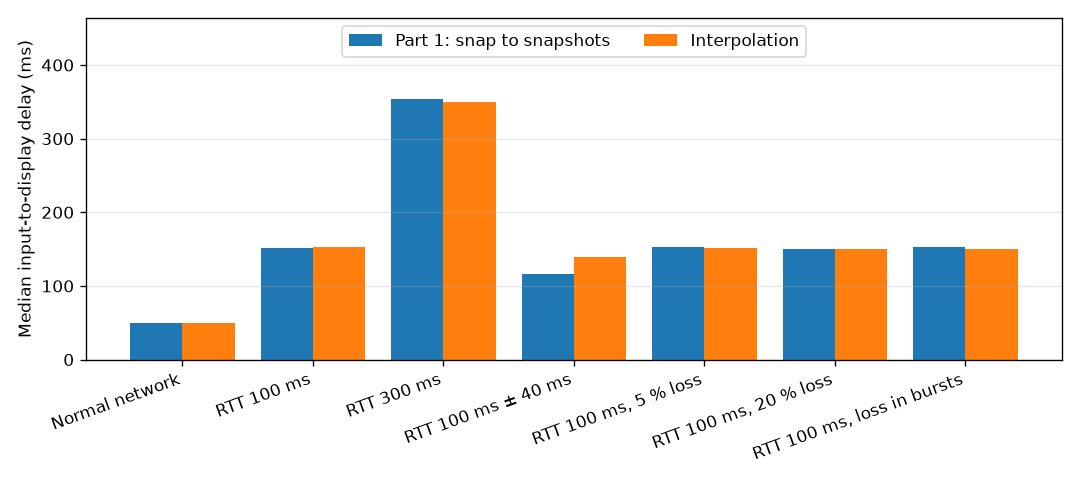
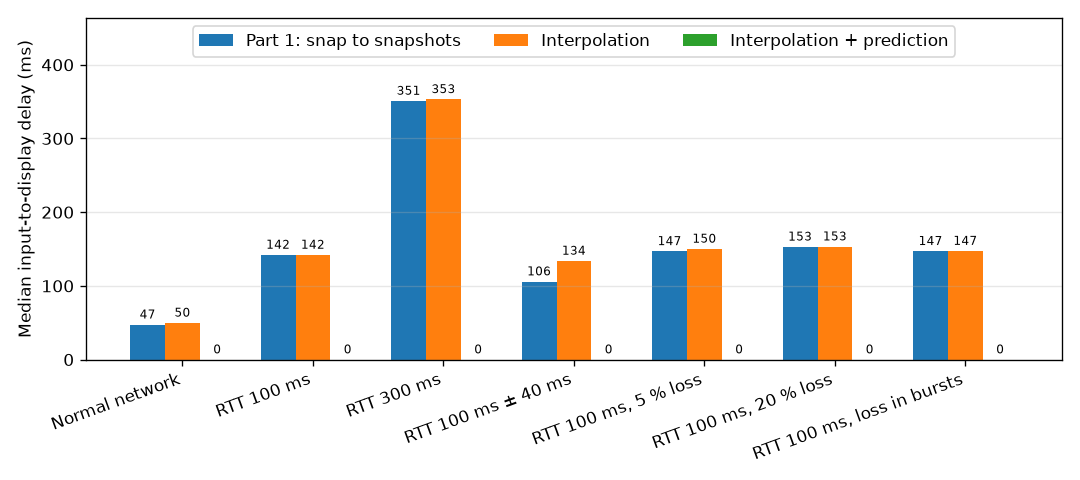
(network) docs: prediction in network comparison
The benchmark measures a third mode with prediction and its
corrections; results and analysis updated.
Refs #90.

diff --git a/tools/netbench.py b/tools/netbench.py
@@ -54,8 +54,9 @@ SCENARIOS = {
 
 # Name, client options.
 MODES = {
-    "snap": ("Part 1: snap to snapshots", ["--no-interpolation"]),
-    "interpolation": ("Interpolation", []),
+    "snap": ("Part 1: snap to snapshots", ["--no-interpolation", "--no-prediction"]),
+    "interpolation": ("Interpolation", ["--no-prediction"]),
+    "prediction": ("Interpolation + prediction", []),
 }
 
 STILL = 0.01
@@ -129,10 +130,10 @@ def run_one(server: Path, client: Path, mode: str, output: Path, duration: float
             server_process.kill()
 
 
-def run(scenarios: list[str], duration: float, use_netem: bool) -> None:
+def run(scenarios: list[str], modes: list[str], duration: float, use_netem: bool) -> None:
     server, client = binary("r-type_server"), binary("r-type_client")
     RESULTS_DIR.mkdir(parents=True, exist_ok=True)
-    total = len(scenarios) * len(MODES)
+    total = len(scenarios) * len(modes)
     log(f"{total} runs of {duration:g} s: do not touch the client windows.")
     if use_netem:
         log("tc needs sudo: enter your password if asked.")
@@ -142,7 +143,7 @@ def run(scenarios: list[str], duration: float, use_netem: bool) -> None:
         for scenario in scenarios:
             if use_netem:
                 netem_set(SCENARIOS[scenario][1])
-            for mode in MODES:
+            for mode in modes:
                 done += 1
                 log(f"[{done}/{total}] {SCENARIOS[scenario][0]}, {MODES[mode][0]}")
                 run_one(server, client, mode, RESULTS_DIR / f"{scenario}-{mode}.csv", duration)
@@ -163,6 +164,8 @@ class Result:
     moves: list[float] = field(default_factory=list)
     received: float = 0.0
     sent: float = 0.0
+    corrections: list[float] = field(default_factory=list)
+    predicted: bool = False
 
     @property
     def fps(self) -> float:
@@ -203,6 +206,8 @@ def load(path: Path) -> Result:
                     result.missed += 1
                 else:
                     result.delays.append(a)
+            elif kind == "correction":
+                result.corrections.append(a)
             elif kind == "net" and t > 0:
                 result.received = a / t
                 result.sent = float(row["b"]) / t
@@ -235,9 +240,12 @@ def ensure_matplotlib() -> None:
         pass
     if not VENV_PYTHON.is_file():
         raise BenchError("matplotlib is missing and .venv/ does not exist: run ./rtype.py once")
-    log("Installing matplotlib in .venv/...")
-    subprocess.run([str(VENV_PYTHON), "-m", "pip", "install", "--quiet",
-                    "--disable-pip-version-check", "matplotlib"], check=True)
+    has_it = subprocess.run([str(VENV_PYTHON), "-c", "import matplotlib"],
+                            capture_output=True, check=False).returncode == 0
+    if not has_it:
+        log("Installing matplotlib in .venv/...")
+        subprocess.run([str(VENV_PYTHON), "-m", "pip", "install", "--quiet",
+                        "--disable-pip-version-check", "matplotlib"], check=True)
     if Path(sys.prefix).resolve() != VENV_DIR.resolve():
         os.execv(str(VENV_PYTHON), [str(VENV_PYTHON), *sys.argv])
 
@@ -250,19 +258,21 @@ def charts(results: dict, scenarios: list[str]) -> list[str]:
 
     IMAGES_DIR.mkdir(parents=True, exist_ok=True)
     metrics = (
-        ("delay", "Median input-to-display delay (ms)", lambda r: r.delay_ms(0.5) or 0.0),
-        ("still", "Frames where an entity is frozen (%)", lambda r: 100 * r.still_ratio),
-        ("jump", "99th percentile of the move per frame (units)", lambda r: r.jump),
+        ("delay", "Median input-to-display delay (ms)", "%.0f",
+         lambda r: r.delay_ms(0.5) or 0.0),
+        ("still", "Frames where an entity is frozen (%)", "%.1f", lambda r: 100 * r.still_ratio),
+        ("jump", "99th percentile of the move per frame (units)", "%.1f", lambda r: r.jump),
     )
     lines = []
     width = 0.8 / len(MODES)
-    for name, label, value in metrics:
+    for name, label, value_format, value in metrics:
         figure, axes = plt.subplots(figsize=(9, 4))
         for index, mode in enumerate(MODES):
             values = [value(results[(s, mode)]) if (s, mode) in results else 0.0
                       for s in scenarios]
             positions = [i + (index - (len(MODES) - 1) / 2) * width for i in range(len(scenarios))]
-            axes.bar(positions, values, width, label=MODES[mode][0])
+            bars = axes.bar(positions, values, width, label=MODES[mode][0])
+            axes.bar_label(bars, fmt=value_format, fontsize=7, padding=2)
         axes.set_xticks(range(len(scenarios)))
         axes.set_xticklabels([SCENARIOS[s][0] for s in scenarios], rotation=20, ha="right")
         axes.set_ylabel(label)
@@ -283,6 +293,7 @@ def report(with_charts: bool) -> None:
             path = RESULTS_DIR / f"{scenario}-{mode}.csv"
             if path.is_file():
                 results[(scenario, mode)] = load(path)
+                results[(scenario, mode)].predicted = "--no-prediction" not in MODES[mode][1]
     if not results:
         raise BenchError(f"no measures in {RESULTS_DIR}: run `./tools/netbench.py run` first")
     scenarios = [s for s in SCENARIOS if any((s, m) in results for m in MODES)]
@@ -300,6 +311,10 @@ def report(with_charts: bool) -> None:
                    lambda r: fmt(100 * r.still_ratio, 1, " %"))
     lines += table(results, scenarios, "99th percentile of the move of an entity in one "
                    "frame, in playfield units", lambda r: fmt(r.jump, 1))
+    lines += table(results, scenarios, "Corrections of the predicted ship per second, and "
+                   "their median size in playfield units",
+                   lambda r: "n/a" if not r.predicted else "0" if not r.corrections else
+                   f"{len(r.corrections) / r.duration:.1f} ({statistics.median(r.corrections):.1f})")
     lines += table(results, scenarios, "Traffic of the client, received / sent, in bytes "
                    "per second", lambda r: f"{r.received:.0f} / {r.sent:.0f}")
     if with_charts:
@@ -323,6 +338,8 @@ def main() -> int:
                         help="seconds measured per run (default: 30)")
     parser.add_argument("-s", "--scenarios", nargs="+", choices=list(SCENARIOS),
                         default=list(SCENARIOS), help="network scenarios (default: all)")
+    parser.add_argument("-m", "--modes", nargs="+", choices=list(MODES),
+                        default=list(MODES), help="client modes (default: all)")
     parser.add_argument("--no-netem", action="store_true",
                         help="do not touch tc: measure the current network as is")
     parser.add_argument("--no-charts", action="store_true",
@@ -336,7 +353,7 @@ def main() -> int:
                 args.scenarios = ["normal"]
             elif not sys.platform.startswith("linux"):
                 raise BenchError("tc netem only exists on Linux (or use --no-netem)")
-            run(args.scenarios, args.duration, not args.no_netem)
+            run(args.scenarios, args.modes, args.duration, not args.no_netem)
         if args.command in (None, "report"):
             report(not args.no_charts)
     except BenchError as error:

diff --git a/docs/NETWORK_COMPARISON.md b/docs/NETWORK_COMPARISON.md
@@ -17,8 +17,9 @@ part of the technical study's "Before vs after" item.
 
 | Mode | Client option | What the client does with a snapshot |
 |------|---------------|---------------------------------------|
-| Part 1: snap to snapshots | `--no-interpolation` | Moves every entity straight to its new position, 20 times per second, as the `v1.0` prototype did. |
-| Interpolation | (default) | Draws the other entities 100 ms in the past, interpolated between the two snapshots around that time (see [Architecture](ARCHITECTURE.md)). The local ship still jumps to each snapshot. |
+| Part 1: snap to snapshots | `--no-interpolation --no-prediction` | Moves every entity straight to its new position, 20 times per second, as the `v1.0` prototype did. |
+| Interpolation | `--no-prediction` | Draws the other entities 100 ms in the past, interpolated between the two snapshots around that time (see [Architecture](ARCHITECTURE.md)). The local ship still jumps to each snapshot. |
+| Interpolation + prediction | (default) | Also predicts the local ship: it moves as soon as a key is pressed, and each snapshot corrects it smoothly (reconciliation). |
 
 All the modes run the same build of the same code: only the technique
 changes, so any difference comes from it.
@@ -43,9 +44,10 @@ changes, so any difference comes from it.
 
 | Metric | What it shows | Better when |
 |--------|---------------|-------------|
-| Input-to-display delay | Time between a key press and the first frame where the local ship moves that way on screen. "Missed" counts the presses never shown before the next one. | Lower |
+| Input-to-display delay | Time between a key press and the first frame where the local ship moves that way on screen; 0 means the frame of the key press itself. "Missed" counts the presses never shown before the next one. | Lower |
 | Frozen frames | Share of the frames where a synced entity (enemy, missile) does not move on screen. Every entity of the game moves all the time, so a frozen frame is a stutter. | Lower |
 | Move per frame, 99th percentile | The largest on-screen jumps of an entity between two frames, in playfield units (1920 × 1080). Smooth movement spreads a move over every frame; snapping does it in one jump. | Lower |
+| Prediction corrections | How often the server disagreed with the predicted ship, and by how much. Each correction fades out smoothly instead of being drawn as a jump. | Fewer, smaller |
 | Traffic | Bytes per second received and sent by the client, to check that a gain does not cost bandwidth. | Equal |
 
 ## 4. Results
@@ -56,51 +58,63 @@ Generated by `tools/netbench.py` on 2026-11-03: 30 s per run, client at about 24
 
 **Input-to-display delay of the local ship, median (95th percentile), in ms**
 
-| Scenario | Part 1: snap to snapshots | Interpolation |
-|---|---:|---:|
-| Normal network | 50 (56) | 50 (58) |
-| RTT 100 ms | 151 (159) | 153 (159) |
-| RTT 300 ms | 353 (359) | 350 (353) |
-| RTT 100 ms ± 40 ms | 117 (167) | 140 (151) |
-| RTT 100 ms, 5 % loss | 153 (201) | 151 (159) |
-| RTT 100 ms, 20 % loss | 150 (200) | 150 (201) |
-| RTT 100 ms, loss in bursts | 152 (159) | 151 (156) |
+| Scenario | Part 1: snap to snapshots | Interpolation | Interpolation + prediction |
+|---|---:|---:|---:|
+| Normal network | 47 (56) | 50 (56) | 0 (6) |
+| RTT 100 ms | 142 (148) | 142 (148) | 0 (6) |
+| RTT 300 ms | 351 (359) | 353 (359) | 0 (6) |
+| RTT 100 ms ± 40 ms | 106 (168) | 134 (159) | 0 (5) |
+| RTT 100 ms, 5 % loss | 147 (151) | 150 (200) | 0 (6) |
+| RTT 100 ms, 20 % loss | 153 (250) | 153 (203) | 0 (6) |
+| RTT 100 ms, loss in bursts | 147 (192) | 147 (197) | 0 (5) |
 
 **Frames where a synced entity is frozen on screen**
 
-| Scenario | Part 1: snap to snapshots | Interpolation |
-|---|---:|---:|
-| Normal network | 91.7 % | 2.7 % |
-| RTT 100 ms | 91.7 % | 2.9 % |
-| RTT 300 ms | 91.7 % | 2.8 % |
-| RTT 100 ms ± 40 ms | 91.7 % | 2.7 % |
-| RTT 100 ms, 5 % loss | 92.1 % | 2.5 % |
-| RTT 100 ms, 20 % loss | 93.3 % | 3.0 % |
-| RTT 100 ms, loss in bursts | 91.9 % | 2.8 % |
+| Scenario | Part 1: snap to snapshots | Interpolation | Interpolation + prediction |
+|---|---:|---:|---:|
+| Normal network | 91.6 % | 2.3 % | 2.7 % |
+| RTT 100 ms | 91.7 % | 2.9 % | 2.8 % |
+| RTT 300 ms | 91.7 % | 2.8 % | 2.5 % |
+| RTT 100 ms ± 40 ms | 91.7 % | 2.8 % | 2.7 % |
+| RTT 100 ms, 5 % loss | 92.1 % | 2.7 % | 2.8 % |
+| RTT 100 ms, 20 % loss | 93.3 % | 2.7 % | 2.8 % |
+| RTT 100 ms, loss in bursts | 92.0 % | 2.7 % | 2.8 % |
 
 **99th percentile of the move of an entity in one frame, in playfield units**
 
-| Scenario | Part 1: snap to snapshots | Interpolation |
-|---|---:|---:|
-| Normal network | 15.0 | 2.2 |
-| RTT 100 ms | 15.0 | 2.2 |
-| RTT 300 ms | 15.0 | 2.2 |
-| RTT 100 ms ± 40 ms | 15.0 | 2.1 |
-| RTT 100 ms, 5 % loss | 15.0 | 2.1 |
-| RTT 100 ms, 20 % loss | 15.0 | 2.1 |
-| RTT 100 ms, loss in bursts | 15.0 | 2.2 |
+| Scenario | Part 1: snap to snapshots | Interpolation | Interpolation + prediction |
+|---|---:|---:|---:|
+| Normal network | 15.0 | 1.8 | 1.8 |
+| RTT 100 ms | 15.0 | 1.9 | 1.8 |
+| RTT 300 ms | 15.0 | 1.9 | 1.8 |
+| RTT 100 ms ± 40 ms | 15.0 | 2.3 | 1.9 |
+| RTT 100 ms, 5 % loss | 15.0 | 1.9 | 1.8 |
+| RTT 100 ms, 20 % loss | 15.0 | 2.4 | 2.4 |
+| RTT 100 ms, loss in bursts | 15.0 | 2.4 | 2.4 |
+
+**Corrections of the predicted ship per second, and their median size in playfield units**
+
+| Scenario | Part 1: snap to snapshots | Interpolation | Interpolation + prediction |
+|---|---:|---:|---:|
+| Normal network | n/a | n/a | 6.1 (0.1) |
+| RTT 100 ms | n/a | n/a | 6.2 (0.1) |
+| RTT 300 ms | n/a | n/a | 5.7 (0.1) |
+| RTT 100 ms ± 40 ms | n/a | n/a | 6.8 (2.5) |
+| RTT 100 ms, 5 % loss | n/a | n/a | 5.9 (0.2) |
+| RTT 100 ms, 20 % loss | n/a | n/a | 4.7 (0.8) |
+| RTT 100 ms, loss in bursts | n/a | n/a | 5.8 (0.3) |
 
 **Traffic of the client, received / sent, in bytes per second**
 
-| Scenario | Part 1: snap to snapshots | Interpolation |
-|---|---:|---:|
-| Normal network | 6091 / 4073 | 5669 / 4074 |
-| RTT 100 ms | 5620 / 4074 | 6875 / 4074 |
-| RTT 300 ms | 6713 / 4069 | 4983 / 4074 |
-| RTT 100 ms ± 40 ms | 4496 / 4074 | 5375 / 4074 |
-| RTT 100 ms, 5 % loss | 5963 / 4070 | 4309 / 4074 |
-| RTT 100 ms, 20 % loss | 3664 / 4074 | 4311 / 4073 |
-| RTT 100 ms, loss in bursts | 6345 / 4073 | 6873 / 4074 |
+| Scenario | Part 1: snap to snapshots | Interpolation | Interpolation + prediction |
+|---|---:|---:|---:|
+| Normal network | 3820 / 4058 | 4103 / 4074 | 5544 / 4074 |
+| RTT 100 ms | 5243 / 4074 | 8157 / 4074 | 6581 / 4074 |
+| RTT 300 ms | 8346 / 4073 | 7217 / 4074 | 5626 / 4074 |
+| RTT 100 ms ± 40 ms | 4942 / 4074 | 6252 / 4007 | 5931 / 4074 |
+| RTT 100 ms, 5 % loss | 4850 / 4074 | 5034 / 4074 | 6349 / 4074 |
+| RTT 100 ms, 20 % loss | 4715 / 4074 | 3589 / 4072 | 4024 / 4074 |
+| RTT 100 ms, loss in bursts | 5163 / 4074 | 4744 / 4074 | 5080 / 4074 |
 
 ![Median input-to-display delay (ms)](images/network-comparison/netbench-delay.png)
 
@@ -117,32 +131,48 @@ snapshots per second and the client draws about 240 frames per second. When it
 snaps to each snapshot, an entity stays still for 11 frames out of 12 (92 %
 frozen frames) and then jumps its whole 50 ms move at once (15 units for an
 enemy). With interpolation it moves a little on every frame: under 3 % frozen
-frames, and the largest per-frame moves are 7 times smaller. The remaining 3 %
-are mostly new entities, which wait about 100 ms at their spawn point for the
-render clock to reach their first snapshot.
+frames, and the largest per-frame moves are about 8 times smaller. The
+remaining 3 % are mostly new entities, which wait about 100 ms at their spawn
+point for the render clock to reach their first snapshot.
 
 **Robust to the network.** The interpolation figures barely move from a
 perfect network to 300 ms of latency, jitter or 20 % loss: the 100 ms render
 delay always keeps two snapshots to interpolate between, and a short
 extrapolation bridges the gaps left by lost snapshots.
 
-**The local ship is not helped yet.** Its delay is the same in both modes, and
-grows with the network: about 50 ms on a perfect network (waiting for the next
-snapshot), then the round-trip time plus 50 ms (150 ms at 100 ms RTT, 350 ms at
-300 ms RTT). Interpolation does not touch the local ship on purpose; this is
-what client-side prediction addresses.
+**Responsiveness: prediction removes the latency of the local ship.**
+Without prediction, the ship only moves once the server has applied the input
+and its snapshot has come back: about 50 ms on a perfect network (waiting for
+the next snapshot), then the round-trip time plus 50 ms (about 150 ms at
+100 ms RTT, 350 ms at 300 ms RTT, up to 250 ms with 20 % loss).
+Interpolation does not change this. With prediction, the ship moves in the
+very frame of the key press (0 ms median, under 6 ms in 95 % of the presses,
+that is one frame), whatever the network.
 
-**Bandwidth is unchanged.** Interpolation and the missile owner bits add no
-byte to the packets. The received traffic varies between runs (about 3.5 to
-7 kB/s) with the number of enemies on screen, not with the mode. The client
-sends about 4 kB/s because it sends one input per displayed frame: at 240
-frames per second, this is the main cost of the upload, and a fixed input rate
-would reduce it.
+**The server stays in charge.** The predicted ship is corrected about 6 times
+per second, each time a snapshot shows a small difference with the
+prediction. On a stable network these corrections are tiny (a tenth of a unit,
+the ship is 64 units wide): the client moves the ship with the same code as
+the server. They grow with jitter (2.5 units) and heavy loss (0.8 units),
+because the server then applies the inputs at less regular times. Each
+correction fades out over about 0.3 s instead of being drawn as a jump.
 
-**Cost of interpolation.** The other entities are drawn 100 ms in the past.
-This delay is not visible in the metrics above, but it is the price of the
-smoothness: a player sees the enemies where they were 100 ms earlier (the
-server, being authoritative, decides hits on the real positions).
+**Bandwidth is unchanged.** Interpolation and prediction add no packet. The
+version 2 protocol adds 4 bytes per player to each snapshot (`lastInput`). The
+received traffic varies between runs (about 3.5 to 8 kB/s) with the number of
+enemies on screen, not with the mode. The client sends about 4 kB/s because
+it sends one input per displayed frame: at 240 frames per second, this is the
+main cost of the upload, and a fixed input rate would reduce it.
+
+**Costs and limits.**
+
+- The other entities are drawn 100 ms in the past. This delay does not show
+  in the metrics above, but it is the price of their smoothness: a player sees
+  the enemies where they were 100 ms earlier, while the server decides hits on
+  the real positions.
+- The local ship is now drawn ahead of the server, but its missiles are not
+  predicted: they appear when the server creates them, slightly behind a
+  moving ship (about the distance the ship covers in one round trip).
 
 ## 6. Running the benchmark
 
@@ -167,6 +197,7 @@ with their charts in `docs/images/network-comparison/`. Useful options:
 | `run` / `report` | Only measure, or only rewrite the results from the last measures. |
 | `-d SECONDS` | Duration of each run (default 30). |
 | `-s SCENARIO...` | Only some scenarios: `normal`, `latency`, `high-latency`, `jitter`, `loss-5`, `loss-20`, `bursts`. |
+| `-m MODE...` | Only some client modes: `snap`, `interpolation`, `prediction`. The report keeps the last measures of the other modes. |
 | `--no-netem` | Measure the current network without `tc` (one "normal" run per mode). |
 | `--no-charts` | Tables only, without installing matplotlib. |
 
@@ -177,5 +208,5 @@ The client options can also be used by hand:
 ```
 
 ```bash
-./build/r-type_client 127.0.0.1 4242 --no-interpolation --bench 30 snap.csv
+./build/r-type_client 127.0.0.1 4242 --no-interpolation --no-prediction --bench 30 snap.csv
 ```
